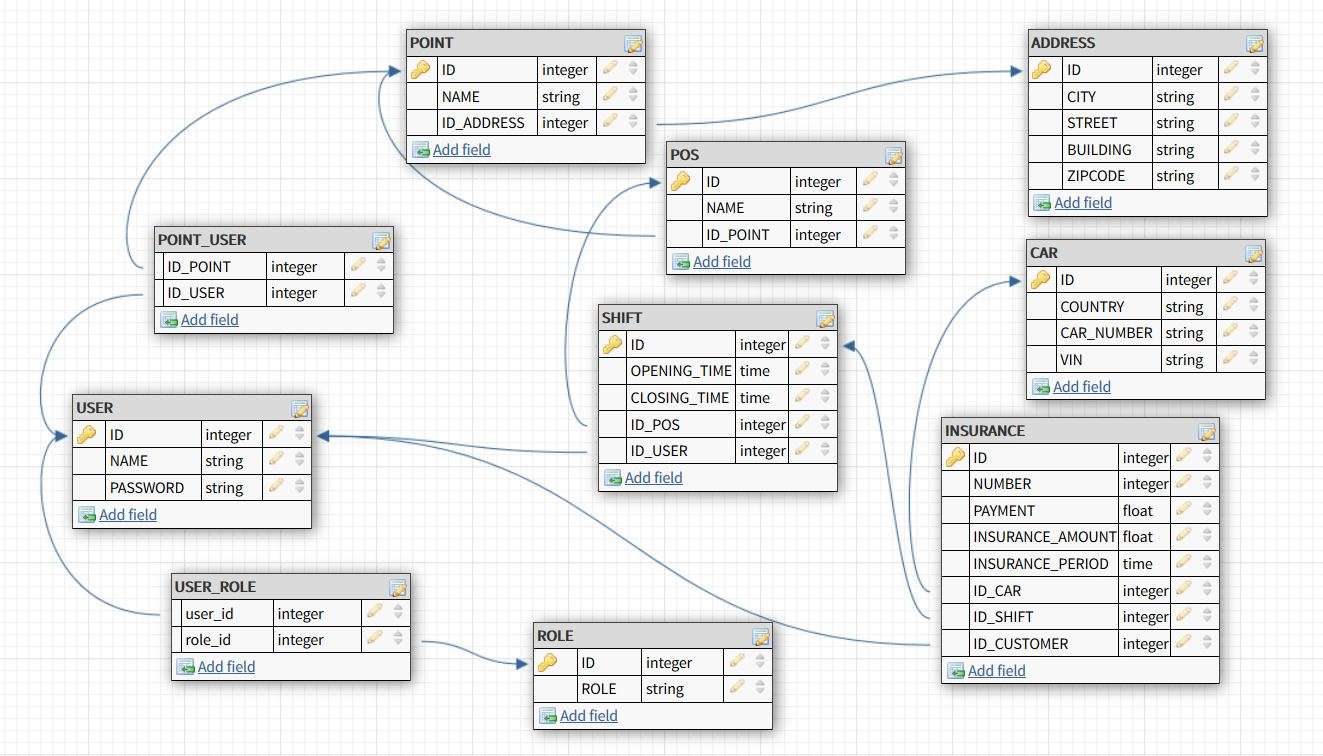
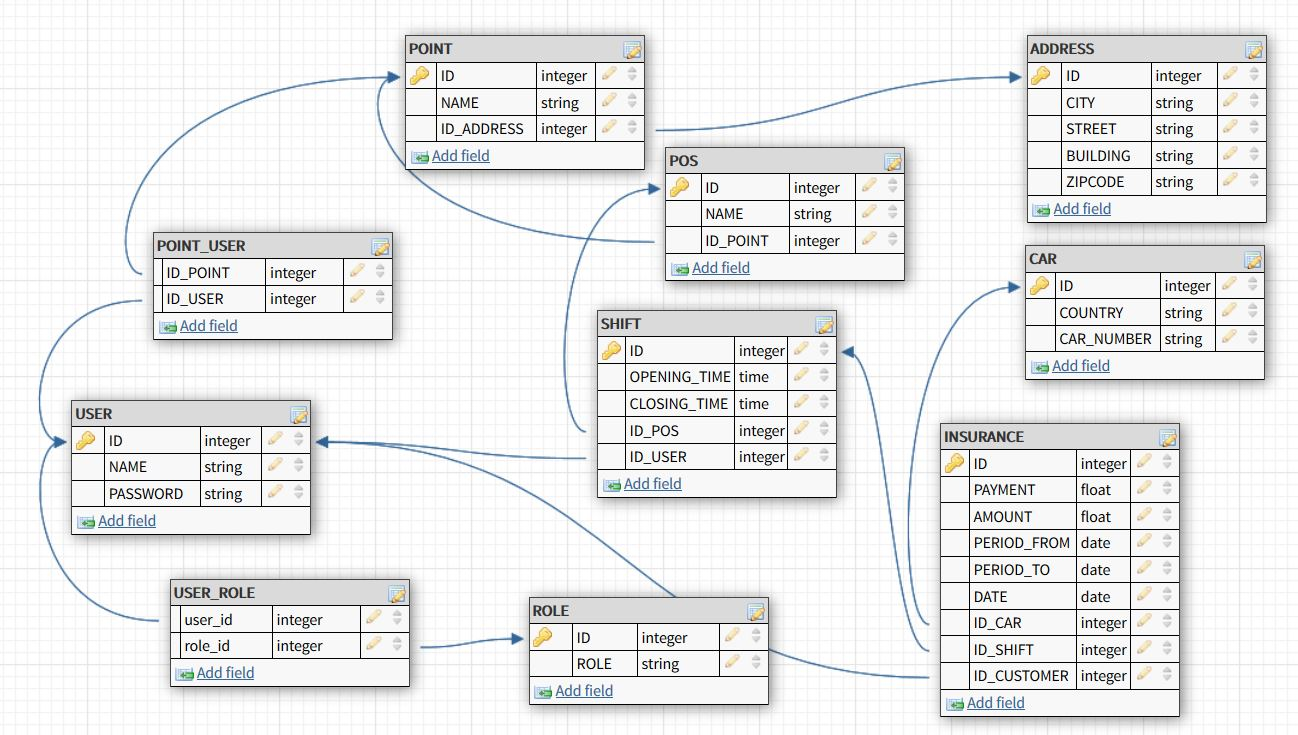
add period and date to Insurance

Changed region(s): [[0.0308, 0.0299, 0.9861, 0.9878], [0.0616, 0.2095, 0.3082, 0.4789]]

diff --git a/src/main/java/com/it/app/dto/request/InsuranceRequestDto.java b/src/main/java/com/it/app/dto/request/InsuranceRequestDto.java
@@ -1,27 +1,35 @@
 package com.it.app.dto.request;
 
 import lombok.Getter;
-import lombok.Setter;
+import lombok.NoArgsConstructor;
 
-import javax.persistence.Column;
 import javax.validation.constraints.NotNull;
 import javax.validation.constraints.Positive;
+import java.time.LocalDate;
+import java.time.format.DateTimeFormatter;
 
 @Getter
-@Setter
+@NoArgsConstructor
 public class InsuranceRequestDto {
 
     private Long id;
 
-    @Column(nullable = false)
     @NotNull(message = "{insurance.payment.notNull}")
     @Positive(message = "{insurance.payment.positive}")
     private Float payment;
 
-    @Column(nullable = false)
     @NotNull(message = "{insurance.amount.notNull}")
     @Positive(message = "{insurance.amount.positive}")
     private Float amount;
+
+    @NotNull(message = "{insurance.periodFrom.notNull}")
+    private LocalDate periodFrom;
+
+    @NotNull(message = "{insurance.periodTo.notNull}")
+    private LocalDate periodTo;
+
+    @NotNull(message = "{insurance.date.notNull}")
+    private LocalDate date;
 
     @NotNull(message = "{insurance.car.notNull}")
     private Long carId;
@@ -32,4 +40,42 @@ public class InsuranceRequestDto {
     @NotNull(message = "{insurance.user.notNull}")
     private Long userId;
 
+    public void setId(Long id) {
+        this.id = id;
+    }
+
+    public void setPayment(Float payment) {
+        this.payment = payment;
+    }
+
+    public void setAmount(Float amount) {
+        this.amount = amount;
+    }
+
+    public void setPeriodFrom(String periodFrom) {
+        LocalDate periodFromLD = LocalDate.parse(periodFrom, DateTimeFormatter.ofPattern("yyyy-MM-dd"));
+        this.periodFrom = periodFromLD;
+    }
+
+    public void setPeriodTo(String periodTo) {
+        LocalDate periodToLD = LocalDate.parse(periodTo, DateTimeFormatter.ofPattern("yyyy-MM-dd"));
+        this.periodTo = periodToLD;
+    }
+
+    public void setDate(String date) {
+        LocalDate dateLD = LocalDate.parse(date, DateTimeFormatter.ofPattern("yyyy-MM-dd"));
+        this.date = dateLD;
+    }
+
+    public void setCarId(Long carId) {
+        this.carId = carId;
+    }
+
+    public void setShiftId(Long shiftId) {
+        this.shiftId = shiftId;
+    }
+
+    public void setUserId(Long userId) {
+        this.userId = userId;
+    }
 }

diff --git a/src/main/java/com/it/app/model/Insurance.java b/src/main/java/com/it/app/model/Insurance.java
@@ -6,6 +6,7 @@ import lombok.Setter;
 import javax.persistence.*;
 import javax.validation.constraints.NotNull;
 import javax.validation.constraints.Positive;
+import java.time.LocalDate;
 
 @Entity
 @Table(name = "insurance")
@@ -18,14 +19,26 @@ public class Insurance {
     private Long id;
 
     @Column(nullable = false)
-    @NotNull(message = "insurance.payment.notNull")
-    @Positive(message = "insurance.payment.positive")
+    @NotNull(message = "{insurance.payment.notNull}")
+    @Positive(message = "{insurance.payment.positive}")
     private Float payment;
 
     @Column(nullable = false)
-    @NotNull(message = "insurance.amount.notNull")
-    @Positive(message = "insurance.amount.positive")
+    @NotNull(message = "{insurance.amount.notNull}")
+    @Positive(message = "{insurance.amount.positive}")
     private Float amount;
+
+    @Column(nullable = false)
+    @NotNull(message = "{insurance.periodFrom.notNull}")
+    private LocalDate periodFrom;
+
+    @Column(nullable = false)
+    @NotNull(message = "{insurance.periodTo.notNull}")
+    private LocalDate periodTo;
+
+    @Column(nullable = false)
+    @NotNull(message = "{insurance.date.notNull}")
+    private LocalDate date;
 
     @OneToOne(fetch = FetchType.LAZY, cascade = CascadeType.REMOVE)
     @JoinColumn(name = "car_id", nullable = false)

diff --git a/src/main/java/com/it/app/repository/InsuranceRepository.java b/src/main/java/com/it/app/repository/InsuranceRepository.java
@@ -9,16 +9,16 @@ import java.util.Optional;
 
 public interface InsuranceRepository extends JpaRepository<Insurance, Long> {
 
-    @Query("SELECT i FROM Insurance i LEFT JOIN FETCH i.car LEFT JOIN FETCH i.shift LEFT JOIN FETCH i.user WHERE i.id = ?1")
+    @Query("SELECT i FROM Insurance i LEFT JOIN FETCH i.car LEFT JOIN FETCH i.user WHERE i.id = ?1")
     Optional<Insurance> findById(Long id);
 
-    @Query("SELECT i FROM Insurance i LEFT JOIN FETCH i.car LEFT JOIN FETCH i.shift LEFT JOIN FETCH i.user")
+    @Query("SELECT i FROM Insurance i LEFT JOIN FETCH i.car LEFT JOIN FETCH i.user")
     List<Insurance> findAll();
 
-    @Query("SELECT i FROM Insurance i LEFT JOIN FETCH i.car LEFT JOIN FETCH i.shift LEFT JOIN FETCH i.user WHERE i.user.id = ?1")
+    @Query("SELECT i FROM Insurance i LEFT JOIN FETCH i.car LEFT JOIN FETCH i.user WHERE i.user.id = ?1")
     List<Insurance> findAllByUserId(Long id);
 
-    @Query("SELECT i FROM Insurance i LEFT JOIN FETCH i.car c LEFT JOIN FETCH i.shift LEFT JOIN FETCH i.user WHERE c.number = ?1")
+    @Query("SELECT i FROM Insurance i LEFT JOIN FETCH i.car c LEFT JOIN FETCH i.user WHERE c.number = ?1")
     List<Insurance> findAllByCarNumber(String number);
 
 }

diff --git a/src/main/java/com/it/app/config/SecurityConfiguration.java b/src/main/java/com/it/app/config/SecurityConfiguration.java
@@ -39,7 +39,7 @@ public class SecurityConfiguration extends WebSecurityConfigurerAdapter {
                         "/api/**", "/v2/api-docs", "/swagger-resources/**"
                 ).permitAll()
                 .mvcMatchers(HttpMethod.GET, "/points").permitAll()
-                .mvcMatchers(HttpMethod.GET,"/insurances/users/**").hasRole("CUSTOMER")
+                .mvcMatchers(HttpMethod.GET,"/insurances/users/**").hasAnyRole("CUSTOMER","USER","ADMIN")
                 .mvcMatchers("/shifts/**", "/insurances/**", "/cars/**", "/users/**").hasAnyRole("USER","ADMIN")
                 .anyRequest().hasRole("ADMIN");
         http.addFilterBefore(new AuthenticationTokenFilter(tokenService, userDetailsService), UsernamePasswordAuthenticationFilter.class);

diff --git a/src/main/java/com/it/app/dto/response/InsuranceResponseDto.java b/src/main/java/com/it/app/dto/response/InsuranceResponseDto.java
@@ -3,6 +3,8 @@ package com.it.app.dto.response;
 import lombok.Getter;
 import lombok.Setter;
 
+import java.time.LocalDate;
+
 @Getter
 @Setter
 public class InsuranceResponseDto {
@@ -10,8 +12,10 @@ public class InsuranceResponseDto {
     private Long id;
     private Float payment;
     private Float amount;
+    private String periodFrom;
+    private String periodTo;
+    private String date;
     private CarResponseDto car;
-    private ShiftIdResponseDto shift;
     private UserWithoutRoleResponseDto user;
 
 }
